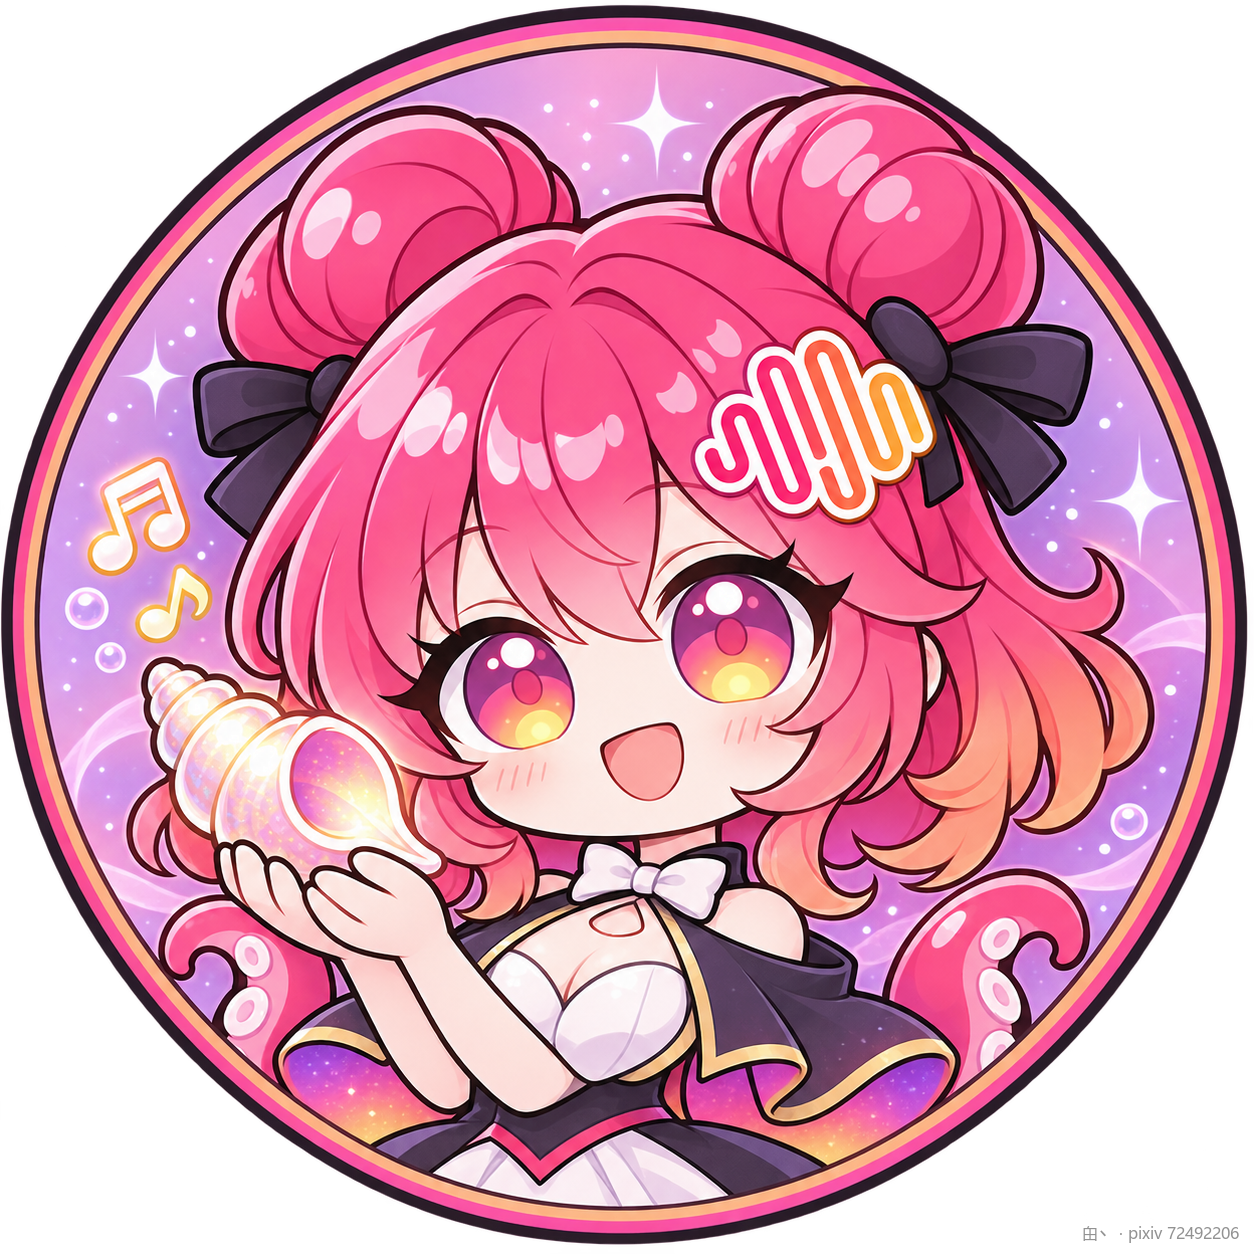
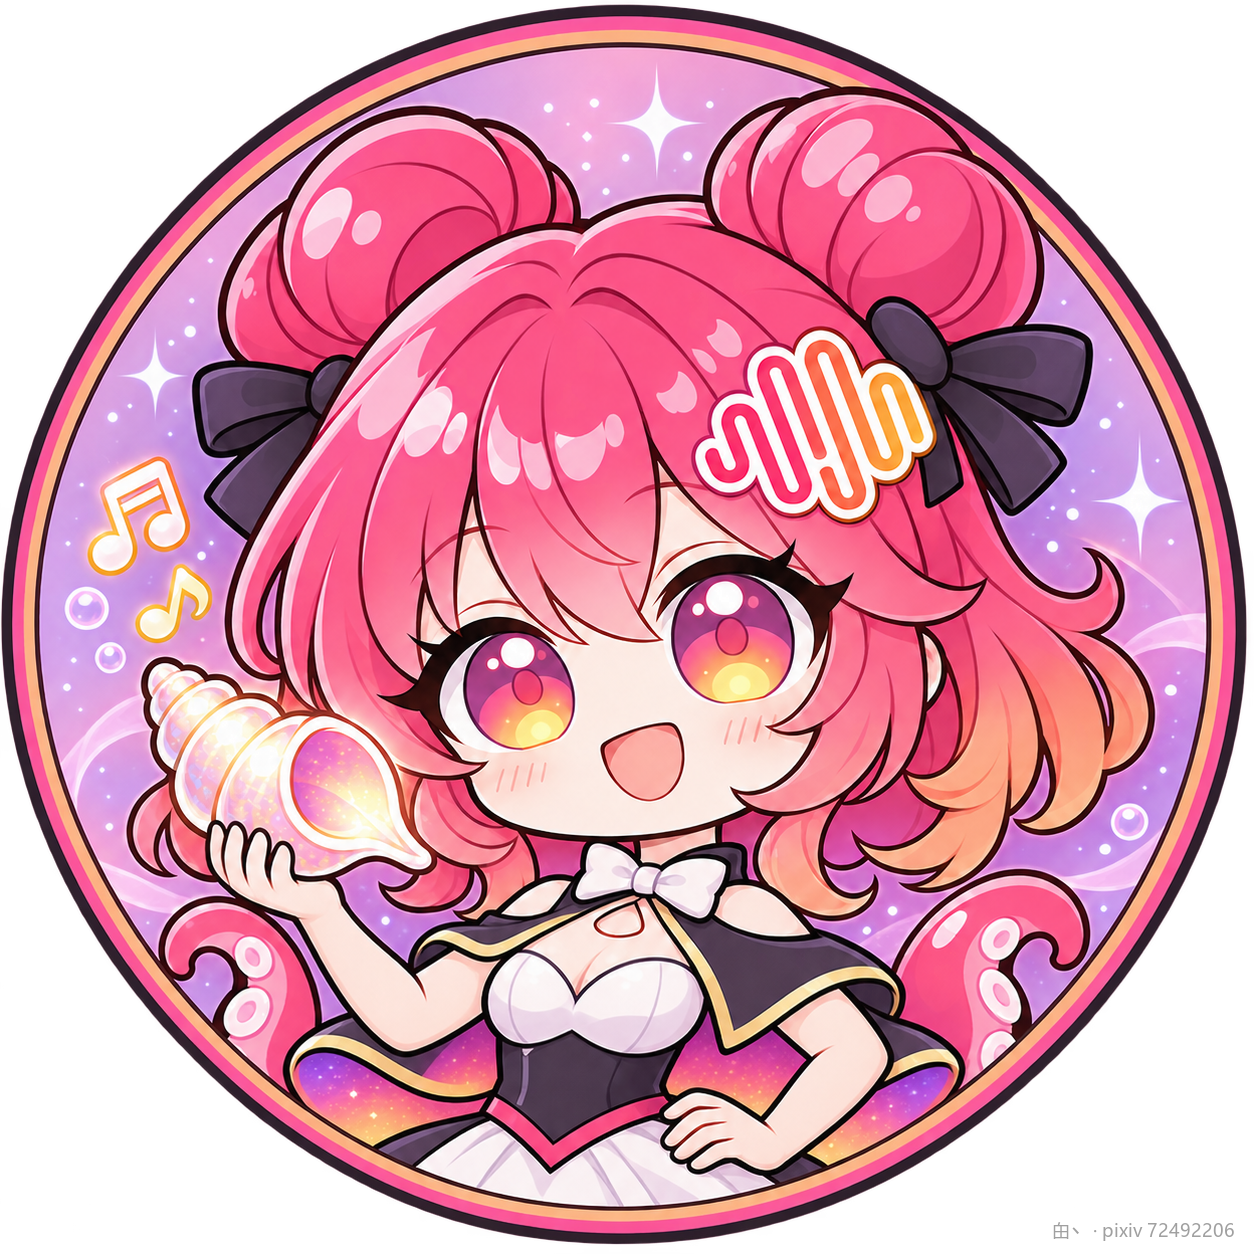
v1.11.1: 修复 MiniMax 娘 2 张 Q 版与 2 张圆形头像手臂及手部结构

diff --git a/CHANGELOG.md b/CHANGELOG.md
@@ -2,6 +2,12 @@
 
 格式：日期 · 版本 · 改了什么。物料会继续补齐，引用时建议带版本或日期。
 
+## v1.11.1 · 2026-11-26
+
+**修复 MiniMax 娘 2 张 Q 版与 2 张正圆徽章头像的手臂与手部解剖结构**
+
+- 重修 `minimax Q版 a.png`、`minimax Q版 b.png` 及对应 `minimax 头像 a.png`、`minimax 头像 b.png`：改为左右肩臂自然分立的清晰 5 指手势（奇幻侧右手单手托海螺、左手叉腰；科幻侧消除胸前错位袖口，右袖右手举海螺场记板、左袖左手自然叉腰），增量刷新公开仓水印图、`_清单.json` 与 `_md5.txt`（正式主库维持 **12 角色 / 162 张**）。
+
 ## v1.11 · 2026-11-26
 
 **新增 MiniMax 娘全套 13 张标准物料包（稀宇科技 MiniMax / 海螺 AI / 星野 · 奇幻×科幻）**
